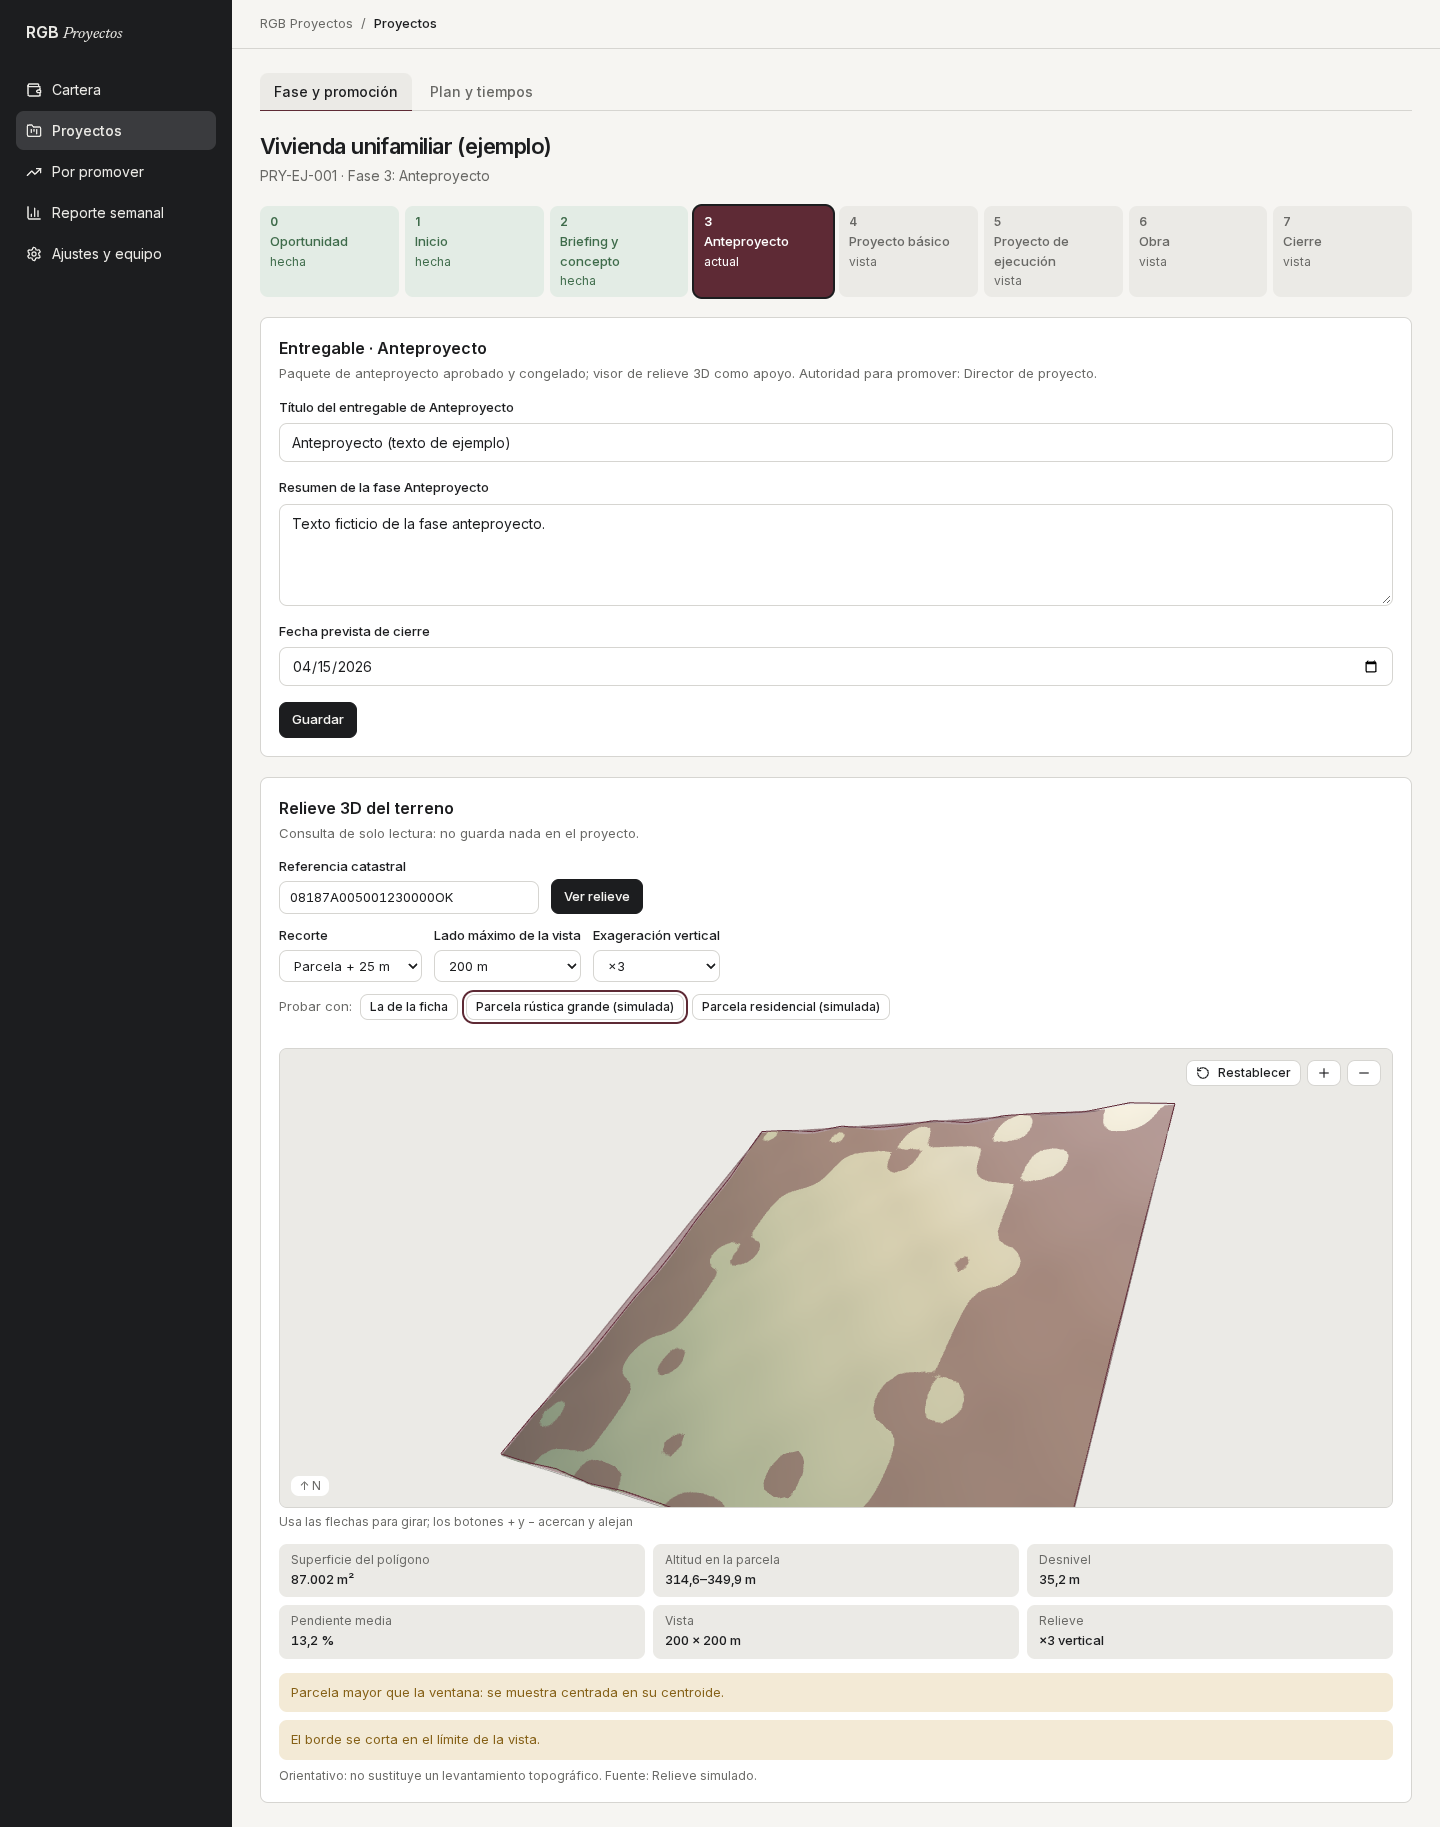
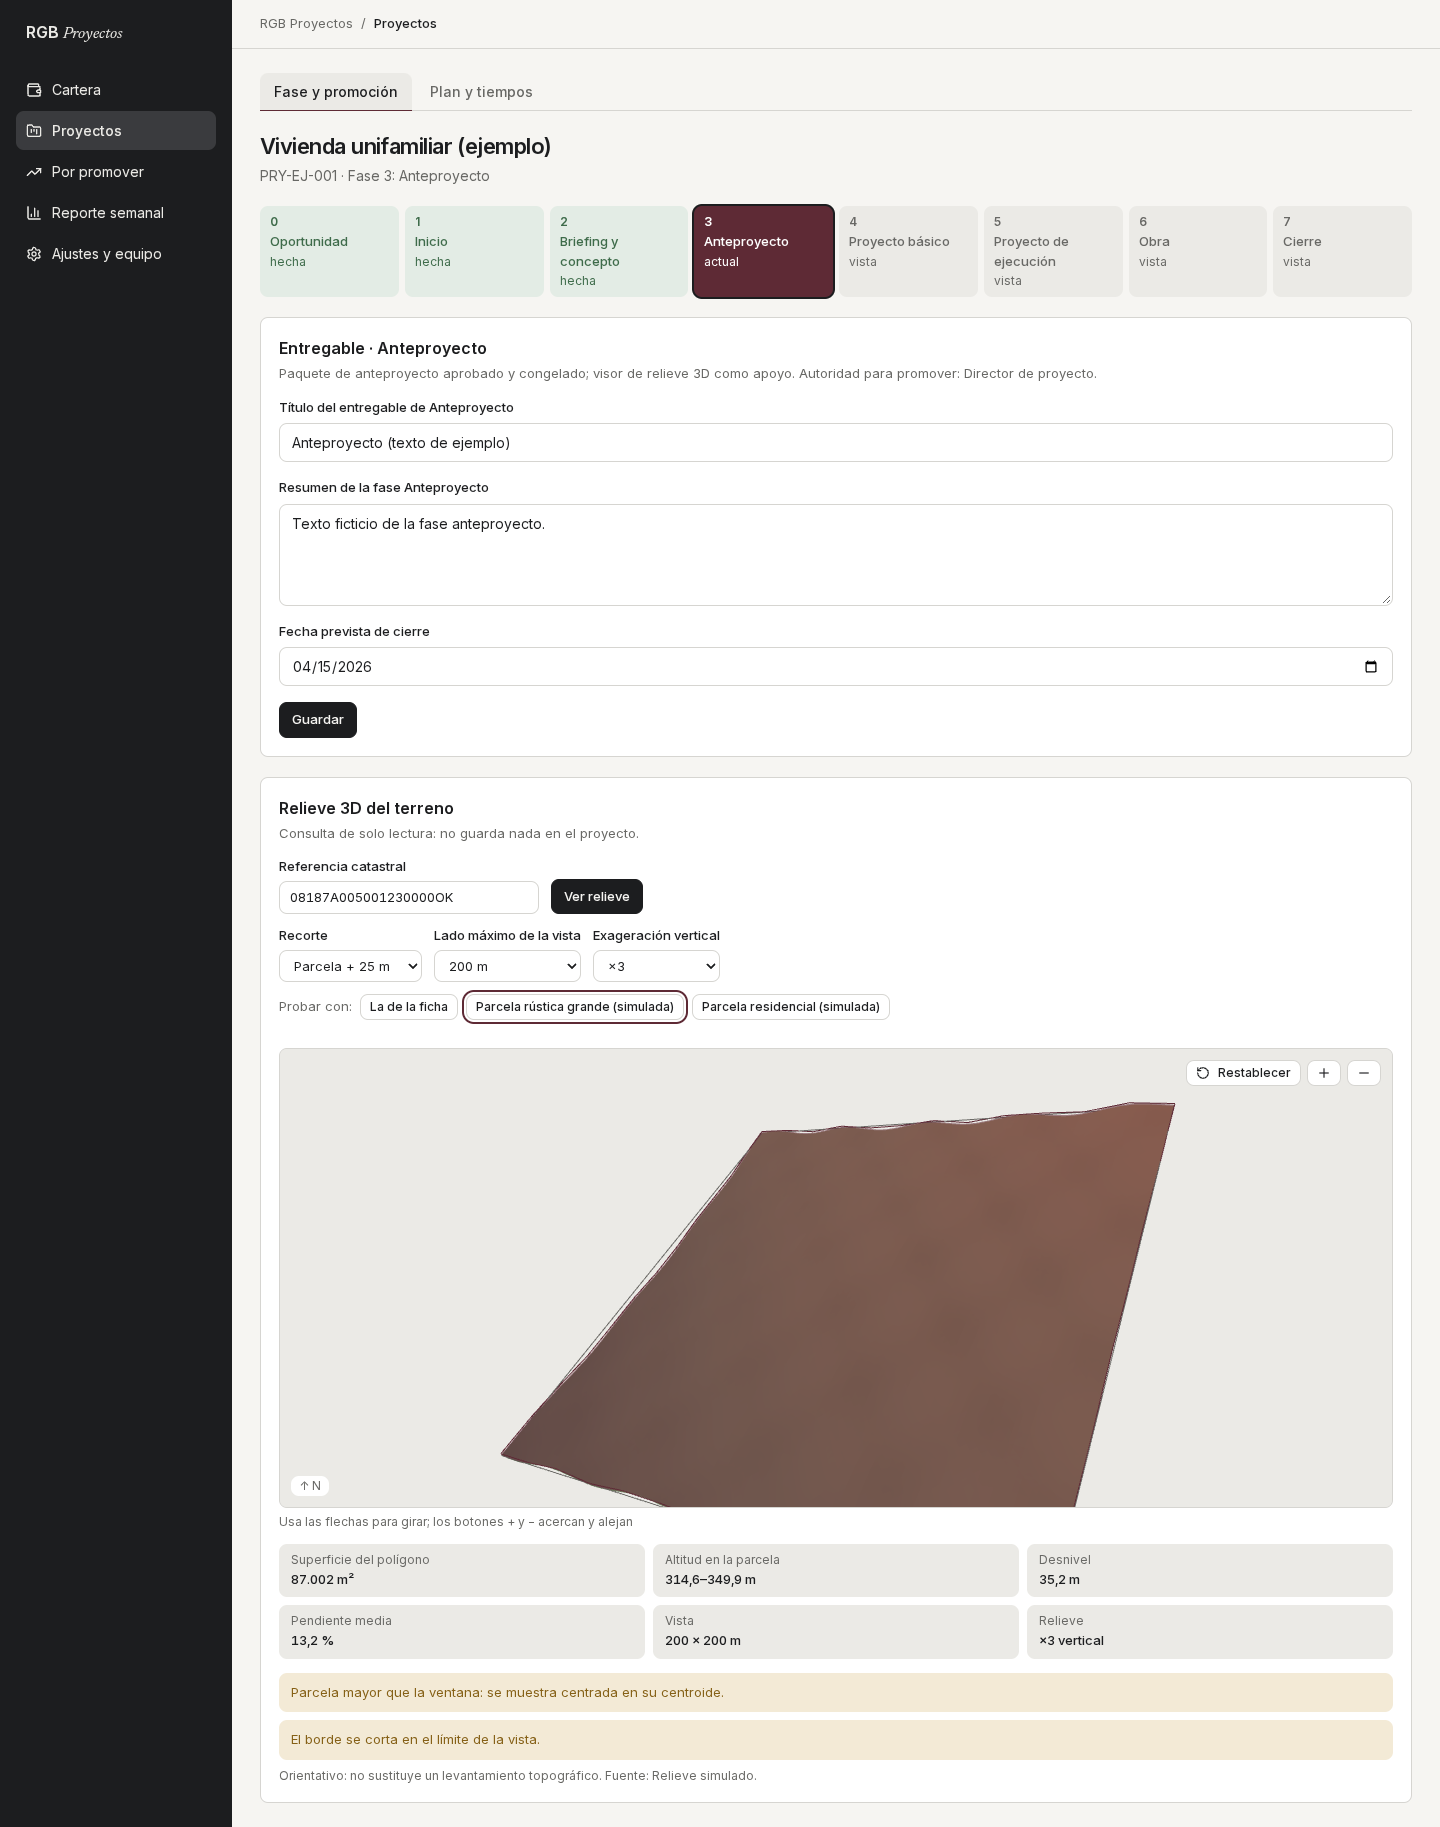
RGB-34: Tester reverifica relleno, contraste y entrada de referencia; pantallazos regenerados

Changed region(s): [[0.3438, 0.5928, 0.8125, 0.8424]]

diff --git a/docs/plans/RGB-34/implementation_log.md b/docs/plans/RGB-34/implementation_log.md
@@ -178,3 +178,27 @@ Estado: `lint`, `typecheck`, `test` (45 suites, 827 tests) y `build` en verde. L
 - Hallazgo 2: encuadre inicial en un lienzo ancho y bajo recorta el borde sur.
 - Hallazgo 5: no hay manejo de `webglcontextlost`.
 - El contraste del relleno sobre los tonos altos de la rampa en oscuro es modesto (>= 1,3:1 en luminancia; se distingue sobre todo por el tono rosado y la línea de acento).
+
+### Reverificación del Tester tras `f3f92e9`
+
+Fecha: 2026-10-24. Mismo método (build real, Chromium con WebGL por software, es-ES, 1440 px, claro y oscuro).
+
+**Comandos.** `lint` y `typecheck` en verde; `test` 45 suites, 827 tests, dos pasadas (42,2 s y 41,0 s) sin inestables; `build` en verde. `three` sigue en un solo chunk diferido (`static/chunks/1m7xsumeumuc8.js`, el único con `WebGLRenderer`); ningún `page_client-reference-manifest` lo lista; no se pide al cargar la fase 3 y se pide una vez al pulsar «Ver relieve».
+
+| Hallazgo | Estado | Evidencia |
+|---|---|---|
+| 1. Terreno asoma por el relleno | Resuelto | En residencial y rústica recortada (claro y oscuro) el relleno cubre la parcela sin huecos (`rural-fill-detail-*.png`, `residential-*.png`, `rural-clipped-*.png`); antes había manchas del terreno dentro de la parcela. |
+| 3. Rampa y relleno poco contrastados | Parcial | Rampa contra el fondo `surface-2`: claro 5,93 / 3,67 / 2,92 / 2,73 (antes 3,55 a 1,09); oscuro 1,70 / 2,03 / 2,45 / 2,94 (antes 2,22 a 7,68, pero con el problema de relleno). La parcela ahora destaca en ambos temas a simple vista (tono rosado/pardo frente a verde y oliva). Siguen bajos los contrastes de luminancia relleno al 60 % contra rampa: claro 1,37-2,07; oscuro 1,31-1,88 (el relleno más claro que el terreno en oscuro). La línea de acento contra la rampa: claro 1,58-3,44; oscuro 1,63-2,83. Se distinguen por matiz, no por luminancia (ver hallazgo nuevo A). |
+| 4. Borde del recorte | Resuelto | `--relief-clip` contra el fondo: 4,50 claro / 4,15 oscuro (antes 1,98 / 1,93); la línea gris se ve en ambas capturas de la residencial. Contra el terreno 1,2-2,4 (es una línea de apoyo, además de «Vista» en texto). |
+| 6. Pegado con espacios | Resuelto | `maxLength` 40 y recorte al validar: `"  REF"`, `"REF   "`, `"  REF  "` y con tabulador/salto se aceptan, el campo queda recortado y se consulta; 20 caracteres con espacios y 2 de más (22 útiles) se rechazan con el aviso. |
+| 7. `aria-invalid` | Resuelto | `false` al inicio; `true` con referencia inválida (y `aria-describedby` al aviso); vuelve a `false` tras un envío válido. Nota: sigue `true` mientras se corrige el texto hasta el siguiente envío (diseño actual, Info). |
+
+**Liberación de WebGL con el relleno nuevo (cifras idénticas a la primera vuelta).** Máximo vivo simultáneo 1; 5 ciclos de navegación: 0 vivos y 0 canvas al salir en los 5 (creados 6); 5 veces «ver relieve y salir en el acto»: 0 vivos al salir (creados 11); Atrás/Adelante: 0; 3 reemplazos + 10 cambios de lado: 1 vivo, 25 creados, 24 eventos `webglcontextlost`; consola sin errores ni avisos. El relleno vive en el mismo grupo que se recorre con `traverse` al liberar y al cambiar la exageración, de modo que su geometría y su material se liberan con el resto (no se puede leer `renderer.info.memory` desde fuera del módulo; lo cubren los tests de `relief-scene` y la ausencia de contextos vivos).
+
+**axe** (claro y oscuro): 0 violaciones en inicial, con relieve y sin WebGL. Foco de 2 px sin cambios.
+
+**Pantallazos regenerados** (`docs/plans/RGB-34/screenshots/`, claro y oscuro): `residential`, `rural-clipped`, `exaggeration-x3`, `invalid-reference`, `no-webgl`, `focus-canvas`, `focus-control`, y nuevos `rural-fill-detail` (lienzo de la rústica recortada ×3, relleno sin huecos) y `aria-invalid` (campo inválido con el foco puesto).
+
+**Hallazgos nuevos.**
+- A. **Baja (visual).** Con opacidad 0,6 el relleno oculta casi por completo la rampa de alturas dentro de la parcela: en la rústica recortada (donde la parcela ocupa toda la ventana) el terreno se ve de un solo tono pardo (claro) o rosa pálido (oscuro) y el relieve se lee solo por el sombreado y las lecturas; en oscuro con ×3 el sombreado es muy tenue. Propuesta: bajar la opacidad (~0,35-0,45) o dibujar solo el contorno y un relleno más tenue cuando la parcela cubre la ventana.
+- B. **Info.** Pendientes de antes: 2 (encuadre que recorta el borde sur) y 5 (pérdida de contexto WebGL sin aviso).
